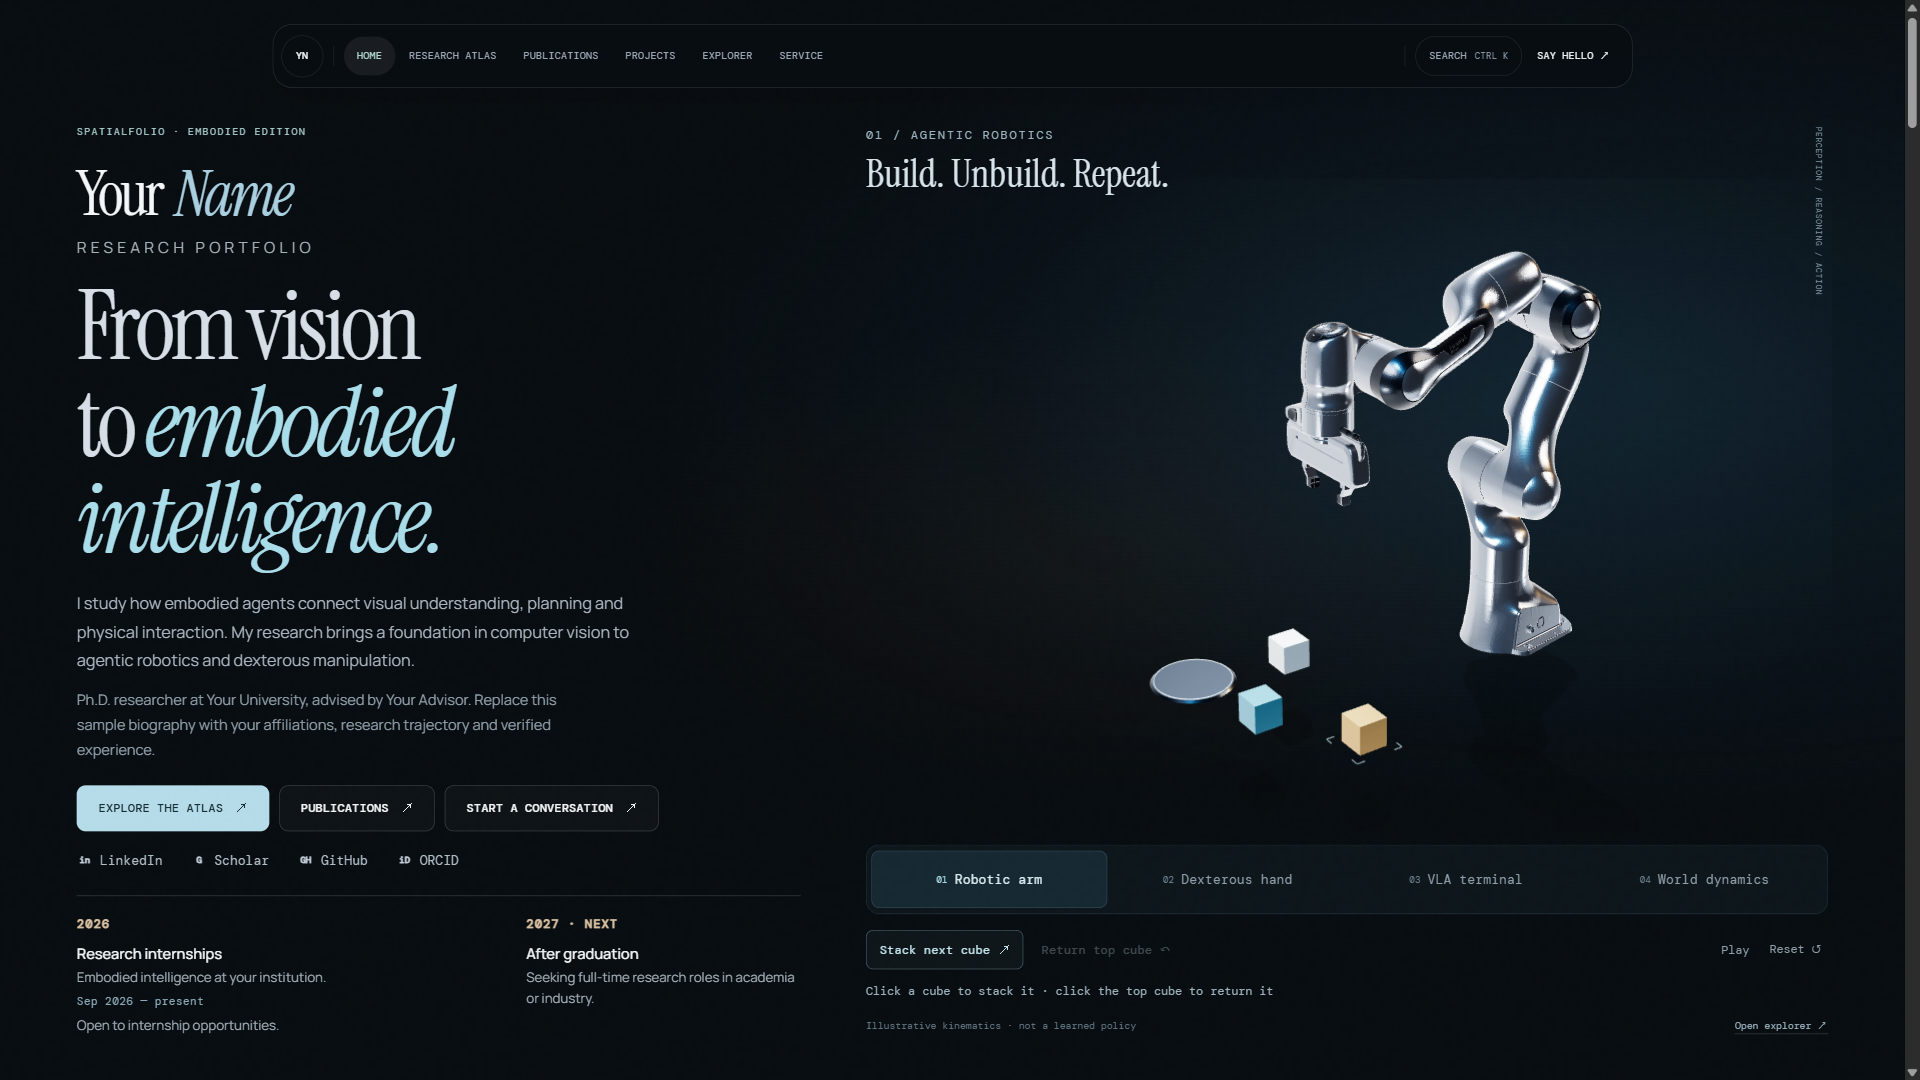
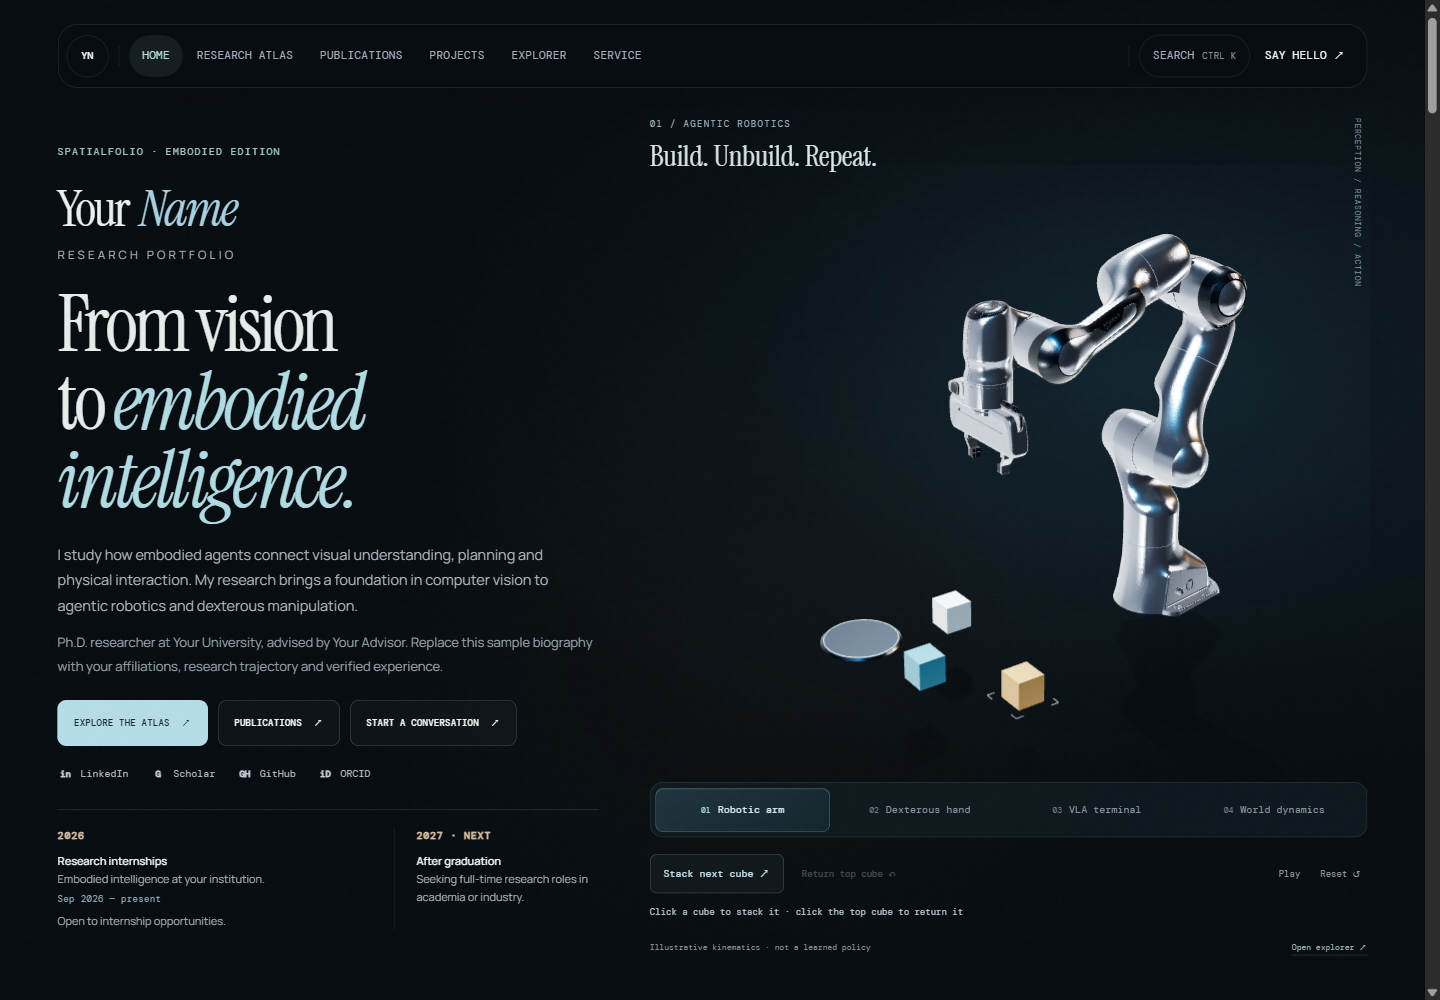
Release v2.0.3 editorial homepage refinement

diff --git a/assets/css/editorial.css b/assets/css/editorial.css
@@ -1,0 +1,242 @@
+/* Editorial polish · homepage only.
+   Preserve the four scenes and all research content; use scale, spacing and
+   surface contrast to distinguish interactive, editorial and reference areas. */
+:root {
+  --editorial-ice: #bddde2;
+  --editorial-ink: #203b42;
+  --editorial-line: #b8d8df26;
+}
+.site-header { width:calc(100% - clamp(64px,8vw,260px)); }
+.nav-pill { border-color:#b7d5df24; box-shadow:0 12px 36px #00000018; }
+.nav-links a,.nav-contact,.command-trigger { font-size:11px; }
+.nav-links a.active { background:#bbdce115; }
+.section-heading h2 { text-wrap:balance; }
+.section-heading p:not(.eyebrow) { font-size:15px; }
+.section-action { font-size:11px; }
+.eyebrow { letter-spacing:.12em; }
+
+/* Quieter chrome, stronger hierarchy. Keep the approved full-viewport stage. */
+.embodied-hero {
+  background:radial-gradient(ellipse at 84% 38%,#20485c42,transparent 47%),
+             radial-gradient(ellipse at 54% 65%,#63513a13,transparent 38%),#080d11;
+}
+.embodied-hero .hero-name { color:#ecf0ed; }
+.embodied-hero .hero-role { color:#e6ecec; }
+.embodied-hero .hero-role em { color:#b1dbe3; }
+.embodied-hero .hero-intro a {
+  text-decoration:none;
+  border-bottom:1px solid #c1dde64d;
+  transition:color .2s,border-color .2s;
+}
+.embodied-hero .hero-intro a:hover { color:#e0f5f6; border-bottom-color:#b8dbe3; }
+.embodied-hero .availability { border-top-color:#bbdce133; }
+.embodied-hero .opportunity + .opportunity {
+  padding-left:22px;
+  border-left:1px solid #bbdce11f;
+}
+.embodied-hero .opportunity p a { text-decoration-color:#a5bcc055; text-underline-offset:3px; }
+.embodied-modes { background:#12212988; border-color:#a9ddea24; }
+.embodied-modes button[aria-pressed=true] {
+  background:linear-gradient(145deg,#36586670,#1b313e77);
+  border-color:#abdceb45;
+  box-shadow:inset 0 1px #daeff315;
+}
+.embodied-action { border-color:#a9ddea40; }
+.embodied-note { color:#849ba5; }
+.embodied-status { color:#b0c5ce; }
+.home-ticker { background:#c9dcde; }
+.home-ticker-track { padding:18px 0; }
+
+/* A gallery of research directions: each silhouette has its own clear space. */
+.research-journey { background:#eff1ed; }
+.research-journey .section-heading { gap:64px; }
+.research-journey .section-heading h2 { line-height:1.04; }
+.journey-grid { gap:24px; }
+.direction-card {
+  min-height:510px;
+  border-radius:14px;
+  background:#080f14;
+  border:1px solid #233c4547;
+  box-shadow:0 12px 28px #1b35390a;
+  transition:transform .35s,border-color .35s,box-shadow .35s;
+}
+.direction-card img {
+  inset:24px 0 auto;
+  height:66%;
+  object-fit:contain;
+  object-position:center;
+  mask-image:linear-gradient(#000 72%,transparent 100%);
+}
+.direction-card::after {
+  background:linear-gradient(180deg,transparent 43%,#080f1466 57%,#080f14 74%);
+}
+.direction-card .direction-number { padding:24px 26px; font-size:10px; color:#b3c8d0; }
+.direction-copy { padding:28px; }
+.direction-copy .research-tag { font-size:9px; letter-spacing:.08em; }
+.direction-copy h3 { font-size:37px; line-height:1.07; margin:12px 0 14px; }
+.direction-copy p { font-size:13px; line-height:1.75; color:#b0c1ca; max-width:39ch; min-height:5.25em; }
+.direction-card::before {
+  content:'↗';
+  position:absolute;
+  top:18px;right:18px;z-index:2;
+  display:grid;place-items:center;
+  width:33px;height:33px;border-radius:50%;
+  border:1px solid #b9dce42b;
+  color:#bed9e1;background:#0c182099;
+  font:15px var(--sans);
+  transition:background .25s,border-color .25s;
+}
+.direction-card:hover,.direction-card:focus-visible {
+  transform:translateY(-4px);
+  border-color:#72909b80;
+  box-shadow:0 16px 30px #193e4517;
+}
+.direction-card:hover::before { background:#24404c; border-color:#bed9e180; }
+.foundation-strip { margin-top:44px; padding-top:34px; gap:40px; }
+.foundation-intro h3 { font-size:36px; line-height:1.12; }
+.foundation-intro p { font-size:13px; }
+.foundation-links { align-content:start; gap:18px; padding-top:4px; }
+.foundation-links img { height:142px; border-radius:8px; filter:saturate(.8); }
+.foundation-links a { font-size:12px; color:#36545d; }
+.foundation-links span { padding-bottom:12px; border-bottom:1px solid #244a4924; }
+
+/* Figures stay integrated, with original scientific colours and soft edges. */
+.featured-publications { gap:26px; }
+.feature-paper { border-radius:14px; border-color:#adcdd91c; padding:38px; }
+.feature-paper h3 { font-size:clamp(33px,2.65vw,43px); line-height:1.13; }
+.paper-meta { font-size:10px; line-height:1.7; color:#a8bfc9; }
+.paper-authors { color:#b5c3cb; font-size:13px; }
+.paper-links { gap:8px; }
+.paper-links a,.status-chip { padding:10px 13px; font-size:10px; border-radius:6px; }
+.feature-paper:has(.paper-visual:not(.paper-visual-dark)) .paper-artwork {
+  filter:brightness(.79) saturate(.94);
+  opacity:.92;
+}
+.feature-paper:has(.paper-visual:not(.paper-visual-dark)):hover .paper-artwork {
+  filter:brightness(.84) saturate(1);
+  opacity:.98;
+}
+.feature-paper-compact h3 { font-size:34px; }
+.complete-publications { margin-top:78px; }
+.complete-publications-heading h3 { font-size:clamp(39px,4.5vw,60px); }
+.home-publication { grid-template-columns:108px minmax(0,1fr) auto; padding:30px 0; }
+.home-publication h4 { font-size:17px; line-height:1.6; letter-spacing:-.015em; }
+.home-publication-meta time { color:#c9dbe0; }
+.home-publication-meta span { font-size:10px; line-height:1.7; color:#95adb8; }
+.home-publication-links a { font-size:10px; }
+.home-publication p { color:#a8b8c0; }
+
+/* Reference content is quieter than featured work, not another wall of cards. */
+.project-card { border-radius:14px; }
+.project-content h3 em { color:#467b87; }
+.project-card:nth-of-type(even) .project-content h3 em { color:#afd7dd; }
+.project-content { padding:42px; }
+.project-stats { margin-top:30px; }
+.project-label { color:#516f77; }
+.project-card:nth-of-type(even) .project-content { background:#0e1b23; }
+.news-section .sticky-heading > p:not(.eyebrow) { color:#a7b8c1; font-size:14px; line-height:1.85; max-width:35ch; }
+.timeline-item { padding:30px 0; }
+.timeline-item time { font-size:11px; color:#a9c6ce; }
+.timeline-item p { font-size:15px; }
+.service-section { background:#0b141b; border-top-color:#b5d7dd1a; }
+.service-grid { grid-template-columns:.75fr 1.65fr; gap:40px; }
+.service-card {
+  padding:24px 0 0;
+  border:0;border-top:1px solid #b8d8df33;
+  border-radius:0;background:none;
+}
+.service-card .card-kicker { color:#a7ccd1; margin:0 0 23px; letter-spacing:.13em; }
+.service-card li { gap:24px; padding:15px 0; }
+.service-card li:first-child { border-top:0; }
+.service-card li strong { font-weight:500; font-size:14px; }
+.service-card li span { color:#a2b7c1; }
+.conference-cloud { gap:10px; }
+.conference-cloud span { font-size:11px; padding:10px 15px; border-color:#b6d6de29; }
+.service-note { color:#98aeb9; max-width:105ch; }
+.contact-inner > p:not(.eyebrow) { color:#aebfc8; }
+.contact-inner .email-link { font-size:16px; padding-bottom:12px; border-bottom-color:#b8d8df50; }
+.institutional-email { font-size:10px; }
+.footer-links { gap:20px; }
+.footer-links a { font-size:11px; }
+a:focus-visible,button:focus-visible { outline:2px solid #a9ddea; outline-offset:5px; }
+.research-journey a:focus-visible,.projects-section a:focus-visible { outline-color:#356977; }
+
+@media(min-width:1181px){
+  .embodied-hero .hero-intro { font-size:clamp(14px,min(1vw,1.55svh),20px); line-height:1.8; }
+  .embodied-hero .hero-intro + .hero-intro { font-size:clamp(12px,min(.9vw,1.32svh),18px); }
+  .embodied-hero .opportunity p { font-size:clamp(11px,min(.76vw,1.2svh),16px); }
+  .embodied-hero .placement-date { font-size:clamp(9px,.64vw,13px); }
+  .embodied-hero .embodied-modes button { font-size:clamp(10px,.7vw,16px); }
+}
+@media(min-width:861px) and (max-height:825px){
+  .embodied-hero .hero-intro { font-size:13px; line-height:1.65; }
+  .embodied-hero .hero-intro + .hero-intro { font-size:12px; }
+  .embodied-hero .opportunity p { font-size:10px; }
+}
+@media(max-width:1180px){
+  .nav-links a,.nav-contact,.command-trigger { font-size:10px;padding-inline:9px; }
+  .research-journey .section-heading { gap:36px; }
+  .journey-grid { gap:16px; }
+  .direction-card { min-height:500px; }
+  .direction-copy { padding:24px; }
+  .direction-copy h3 { font-size:32px; }
+  .direction-card .direction-number { font-size:9px;padding:23px; }
+  .direction-card::before { width:27px;height:27px;right:12px; }
+  .service-grid { gap:28px; }
+}
+@media(max-width:860px){
+  .site-header { width:calc(100% - 48px); }
+  .journey-grid { grid-template-columns:1fr; gap:20px; }
+  .direction-card { min-height:300px; }
+  .direction-card img { width:51%;height:100%;inset:0 0 0 auto;mask-image:linear-gradient(90deg,transparent,#000 18%); }
+  .direction-card::after { background:linear-gradient(90deg,#080f14 0%,#080f14ed 37%,transparent 75%); }
+  .direction-copy { width:60%;padding:22px 26px 28px; }
+  .direction-copy p { min-height:0; }
+  .direction-copy h3 { font-size:35px; }
+  .direction-card .direction-number { padding:24px 26px 12px; }
+  .foundation-links img { height:150px; }
+  .feature-paper { padding:28px; }
+  .feature-paper h3 { font-size:34px; }
+  .home-publication { grid-template-columns:85px 1fr;gap:18px; }
+  .home-publication-links { grid-column:2; }
+  .service-grid { grid-template-columns:1fr;gap:30px; }
+  .project-content { padding:30px; }
+}
+@media(max-width:560px){
+  .site-header { width:calc(100% - 40px); }
+  .section-heading p:not(.eyebrow) { font-size:14px; }
+  .research-journey .section-heading h2 { font-size:48px; }
+  .embodied-hero .opportunity + .opportunity { padding-left:14px; }
+  .embodied-hero .availability { grid-template-columns:1.4fr 1fr;gap:14px; }
+  .embodied-hero .opportunity p { font-size:11px;line-height:1.65; }
+  .embodied-hero .placement-date { font-size:9px; }
+  .direction-card { min-height:480px; }
+  .direction-card img { inset:8px 0 auto;width:100%;height:66%;mask-image:linear-gradient(#000 70%,transparent 100%); }
+  .direction-card::after { background:linear-gradient(180deg,transparent 35%,#080f1499 57%,#080f14 72%); }
+  .direction-copy { width:100%;padding:26px; }
+  .direction-copy h3 { font-size:36px; }
+  .direction-card .direction-number { padding:24px 26px; }
+  .foundation-links { gap:12px; }
+  .foundation-links img { height:100px; }
+  .foundation-links a { font-size:11px; }
+  .feature-paper { padding:24px; }
+  .feature-paper h3 { font-size:30px;line-height:1.15; }
+  .paper-authors { font-size:12px; }
+  .paper-meta { font-size:9px; }
+  .paper-links a,.status-chip { font-size:9px;padding:10px; }
+  .complete-publications { margin-top:55px; }
+  .home-publication { grid-template-columns:1fr;gap:12px;padding:26px 0; }
+  .home-publication-links { grid-column:1; }
+  .home-publication h4 { font-size:16px; }
+  .project-content { padding:26px; }
+  .timeline-item p { font-size:14px; }
+  .service-card li { gap:8px; }
+  .conference-cloud { gap:8px; }
+  .conference-cloud span { font-size:10px;padding:9px 12px; }
+  .contact-inner .email-link { font-size:13px; }
+  .footer-links a { font-size:10px; }
+}
+@media(prefers-reduced-motion:reduce){
+  .direction-card,.direction-card::before { transition:none; }
+  .direction-card:hover,.direction-card:focus-visible { transform:none; }
+}

diff --git a/index.html b/index.html
@@ -34,6 +34,7 @@
   }
   </script>
   <link rel="stylesheet" href="/assets/css/embodied.css?v=2.0.1">
+  <link rel="stylesheet" href="/assets/css/editorial.css?v=2.0.3">
 </head>
 <body>
   <a class="skip-link" href="#main">Skip to content</a>

diff --git a/README.md b/README.md
@@ -13,7 +13,7 @@
 
 [Customization](docs/CUSTOMIZE.md) · [Design with Codex](docs/CODEX_VISUALS.md) · [Edition guide](docs/EDITIONS.md) · [中文说明](README.zh-CN.md)
 
-> **2.0.2 · Embodied edition.** All sample names, institutions, placement dates and publications in this template are fictional. Replace them with your own verified information before publishing.
+> **2.0.3 · Embodied edition.** All sample names, institutions, placement dates and publications in this template are fictional. Replace them with your own verified information before publishing.
 
 ## Choose your research edition
 
@@ -77,6 +77,7 @@ Open `http://127.0.0.1:4173/`. No package installation is required. The template
 | Rover, preset navigation and idealized dynamics | `assets/js/robot-studies.js` |
 | Model geometry and joint-limited motion | `assets/models/` |
 | Embodied layout | `assets/css/embodied.css` |
+| Homepage editorial polish (type, cards and service layout) | `assets/css/editorial.css` |
 | Base design and publication treatments | `assets/css/cosmic.css`, `subpages.css`, `refinement.css` |
 | Previous Perception renderer | `assets/js/spatial-cloud.js`, `spatial-world.js` |
 

diff --git a/CHANGELOG.md b/CHANGELOG.md
@@ -1,5 +1,15 @@
 # Changelog
 
+## 2.0.3 — Editorial refinement · 2026-09-30
+
+- Refine homepage type, control contrast and placement-date hierarchy while retaining the full-viewport interactive hero.
+- Give research-direction silhouettes a contained gallery composition with aligned copy and visible link affordances.
+- Preserve integrated publication imagery, softly improve figure exposure and scientific colour fidelity, and keep the complete record visible.
+- Replace nested service panels with an open editorial layout and unify dataset accents.
+- Scope the new `editorial.css` layer to the homepage; leave Explorer, dataset pages and the archived Perception edition unchanged.
+
+中文：调整首页字号、研究方向卡片构图、论文配图融合与学术服务排版，并更新中英文说明共用的真实截图；保留四个交互场景、完整论文列表、署名与许可，不改变独立子页面及旧版模板。
+
 ## 2.0.2 — World dynamics entry autoplay · 2026-09-30
 
 - Automatically start one dynamics rollout when entering scene 04 on the homepage or Explorer, including direct scene links.

diff --git a/README.zh-CN.md b/README.zh-CN.md
@@ -13,7 +13,7 @@
 
 [定制指南](docs/CUSTOMIZE.zh-CN.md) · [用 Codex 设计动效](docs/CODEX_VISUALS.zh-CN.md) · [版本选择](docs/EDITIONS.md)
 
-> **2.0.2 · Embodied 具身智能版。** 模板中的姓名、单位、实习起止时间与论文均为虚构示例，发布前请替换为自己的真实信息。
+> **2.0.3 · Embodied 具身智能版。** 模板中的姓名、单位、实习起止时间与论文均为虚构示例，发布前请替换为自己的真实信息。
 
 ## 选择适合你研究方向的版本
 
@@ -78,6 +78,7 @@ npm run validate
 | 移动机器人、预设导航与理想化动力学 | `assets/js/robot-studies.js` |
 | 机器人几何与关节运动 | `assets/models/` |
 | 具身智能版排版 | `assets/css/embodied.css` |
+| 首页视觉细化（字号、卡片与学术服务排版） | `assets/css/editorial.css` |
 | 基础设计与论文视觉处理 | `cosmic.css`、`subpages.css`、`refinement.css` |
 | 旧版感知场景 | `spatial-cloud.js`、`spatial-world.js` |
 

diff --git a/docs/EDITIONS.md b/docs/EDITIONS.md
@@ -1,6 +1,6 @@
 # Choosing an edition / 版本选择
 
-## Embodied · 2.0.2
+## Embodied · 2.0.3
 
 For embodied AI and robotics researchers. The default homepage and Explorer share
 `assets/js/robot-stage.js`; the four modes are `arm`, `hand`, `vla` and `wam`.
